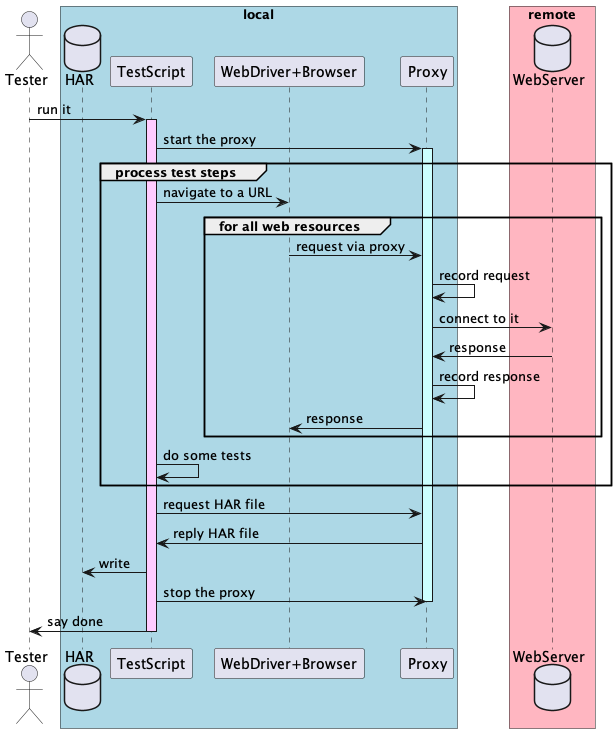
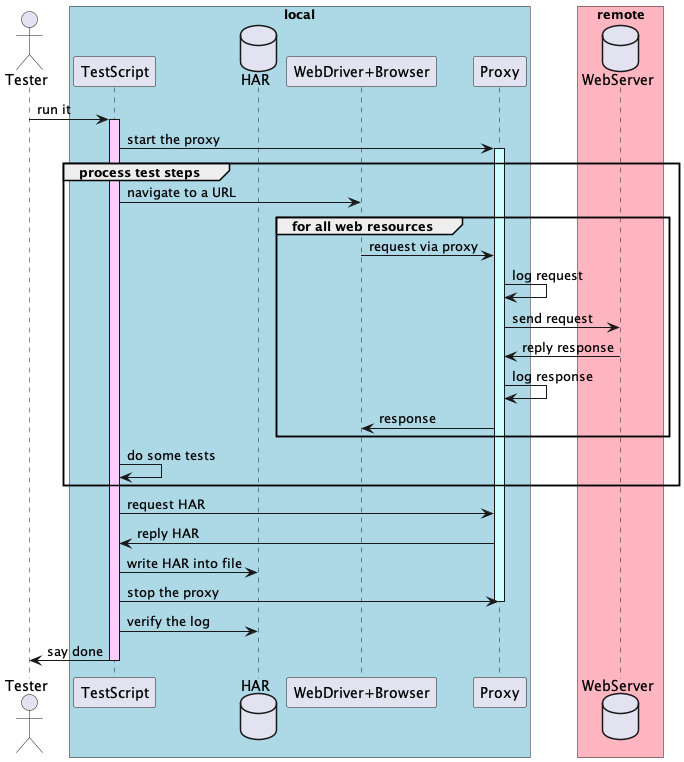
README convers Jayway JsonPath

Changed region(s): [[0.0, 0.0, 1.0, 1.0]]

diff --git a/README.md b/README.md
@@ -2,7 +2,7 @@
 
 ## Background
 
-In the [Katalon User Forum](https://forum.katalon.com/), there is a Frequently Asked Question.
+In the [Katalon User Forum](https://forum.katalon.com/), there is a Frequently Asked Questions.
 
 >I want to do a Web UI test using browsers and at the same time I want to save the payload of HTTP requests and responses into a file. How can I do it?
 
@@ -18,15 +18,111 @@ The post suggested the way how to make use of BrowserMob Proxy in Katalon Studio
 
 Here I would show you a runnable Katalon Studio project empowered by BrowserMob Proxy to make a HAR file that contain HTTP messages exchanged by browser and HTTP servers.
 
+Additionally, I would show you a sample code that parses the HAR file as JSON and verify if it meets some condition. For example, the demo tests if the HAR contains a request to a URL that ends with a string `jquery.min.js`. You can modify the test condition as a Regular Expression as you want.
 
 ![sequence](https://kazurayam.github.io/BrowserMobProxyInKatalonStudio/diagrams/out/sequence/sequence.png)
 
 You can download the zip of the project from the [Releases](https://github.com/kazurayam/BrowserMobProxyInKatalonStudio/releases/) page. You want to download the zip; unzip it; open the project with your local Katalon Studio; run  the "Test Suite/TS1"; when it  finished you will find `sample.har` file is created in the project folder.
 
-## How to view
+## How to view the HAR file
 
 The `sample.jar` file will be a very large JSON text file. It is difficult to see it and grasp overall in a text editor. You would need a tailored viewer for HAR file. I would recommend you to use [Visual Studio Code](https://code.visualstudio.com/) with [HAR Viewer](https://marketplace.visualstudio.com/items?itemName=unclebeast.har-viewer) plugin installed. The following image shows an example:
 
 ![VSCode HAR Viewer](https://kazurayam.github.io/BrowserMobProxyInKatalonStudio/images/VSCode_HARViewer.png)
+
+## How to post-process the HAR file as JSON using Jayway JsonPath
+
+Additionally, I want to automate verifying the content of HAR file. I expect that the `sample.har` file contains a record of a HTTP request to a url that ends with `jquery.min.js`.
+
+```
+{
+  "log": {
+    ...
+    "entries": [
+      ...
+      {
+        "request": {
+          "method": "GET",
+          "url": "https://cdnjs.cloudflare.com/ajax/libs/jquery/1.11.3/jquery.min.js",
+          ...
+        }
+      }
+      ...
+    ]
+  }
+}
+```
+
+How can I do it?
+
+There could be many ways to meet this requirement.
+
+I tried to solve this problem using [Jaywa JsonPath](https://github.com/json-path/JsonPath) library.
+
+You can find my solution in the code of [Test Cases/process_har_with_jsonpath](https://github.com/kazurayam/BrowserMobProxyInKatalonStudio/tree/main/Scripts/process_har_with_jsonpath/Script1676083293661.groovy).
+
+The following screenshot shows how the demo `TS1` runs with verifying HAR file.
+
+![verify HAR](https://kazurayam.github.io/BrowserMobProxyInKatalonStudio/images/TS1_with_verify_HAR.png)
+
+The Test Case `process_har_with_jsonpath` verifies if the `sample.har` file contains a URL that ends with `jquery.min.js`. Of course you can modify the condition as you want. Please study the code and the Jayway JsonPath documentation.
+
+### How to import required jar files.
+
+Katalon Studio does not bundle the jar files required to use the Jayway JsonPath. You need to import external jar files from Maven Central repository into the `<projectDir>/Drivers` folder. The following document explains how to do it:
+
+- [Katalon Gradle Plugin](https://github.com/katalon-studio/katalon-gradle-plugin)
+
+To do this, you need to install Java and Gradle into your machine. The following post has an instruction how to:
+
+- [setting up gradle build tool](https://forum.katalon.com/t/automated-visual-inspection/81966#setting-up-gradle-build-tool-22)
+
+Once you installed Java and Gradle, you want to write [`<projectDir>/build.gradle`](https://github.com/kazurayam/BrowserMobProxyInKatalonStudio/blob/main/build.gradle) as follows:
+
+```
+plugins {
+  id 'java'
+  id "com.katalon.gradle-plugin" version "0.1.1"
+}
+
+repositories {
+  mavenCentral()
+}
+
+dependencies {
+  implementation group: 'com.jayway.jsonpath', name: 'json-path', version: '2.7.0'
+  implementation group: 'org.slf4j', name: 'slf4j-api', version: '2.0.6'
+  implementation group: 'org.slf4j', name: 'slf4j-simple', version: '2.0.6'
+}
+
+```
+
+And you want to execute in the command line:
+
+```
+$ cd $projectDir
+$ gradle katalonCopyDependencies
+```
+
+then you will see some jar files are imported into the Drivers dir:
+
+```
+$ ls -ls Drivers
+total 1240
+drwxr-xr-x   8 kazuakiurayama  staff     256  2 11 11:55 .
+drwxr-xr-x  31 kazuakiurayama  staff     992  2 11 11:21 ..
+-rw-r--r--   1 kazuakiurayama  staff   29489  2 11 11:21 katalon_generated_accessors-smart-2.4.7.jar
+-rw-r--r--   1 kazuakiurayama  staff  121790  2 11 11:21 katalon_generated_asm-9.1.jar
+-rw-r--r--   1 kazuakiurayama  staff  271159  2 11 11:21 katalon_generated_json-path-2.7.0.jar
+-rw-r--r--   1 kazuakiurayama  staff  119227  2 11 11:21 katalon_generated_json-smart-2.4.7.jar
+-rw-r--r--   1 kazuakiurayama  staff   62531  2 11 11:21 katalon_generated_slf4j-api-2.0.6.jar
+-rw-r--r--   1 kazuakiurayama  staff   15239  2 11 11:21 katalon_generated_slf4j-simple-2.0.6.jar
+```
+
+Now you want to run the `Test Cases/process_har_with_jsonpath`, or run the `Test Suties/TS1` which indirectly execute the whole test cases.
+
+
+
+## Conclusion
 
 Hope this helps.
